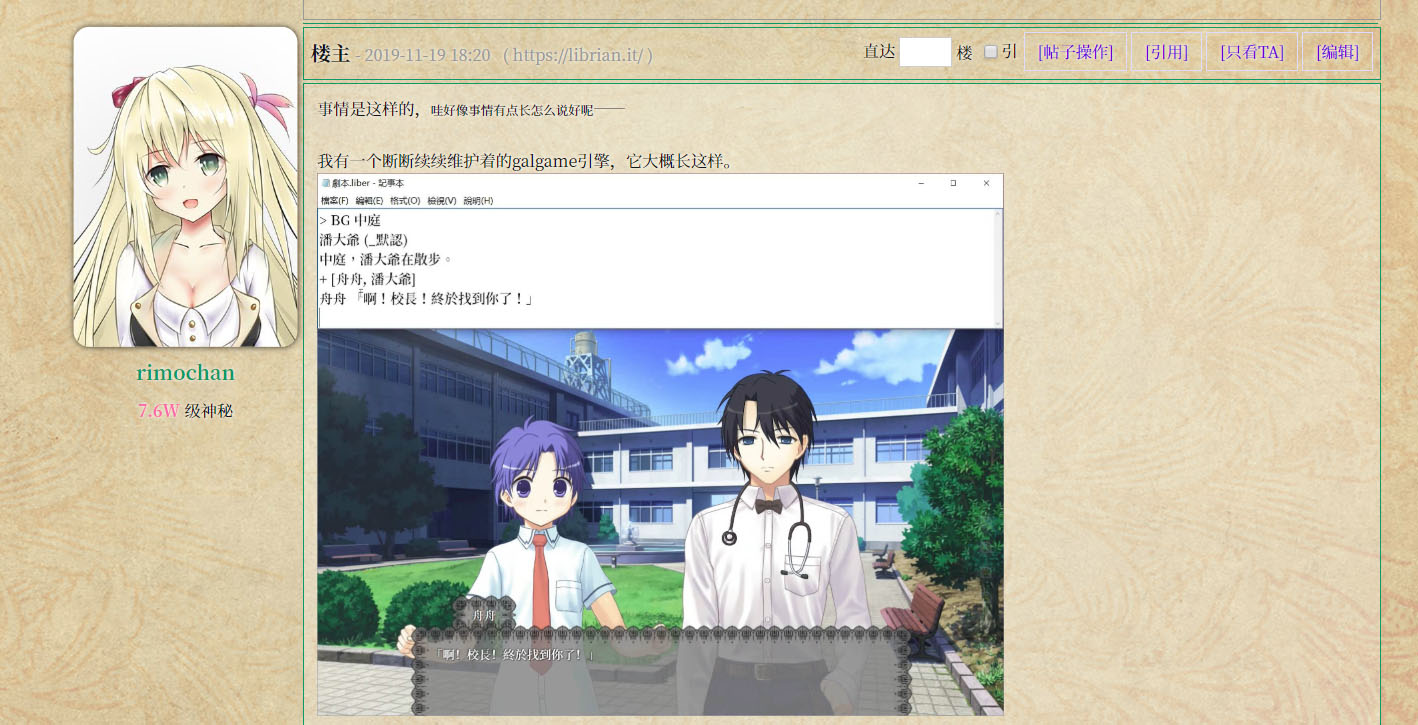
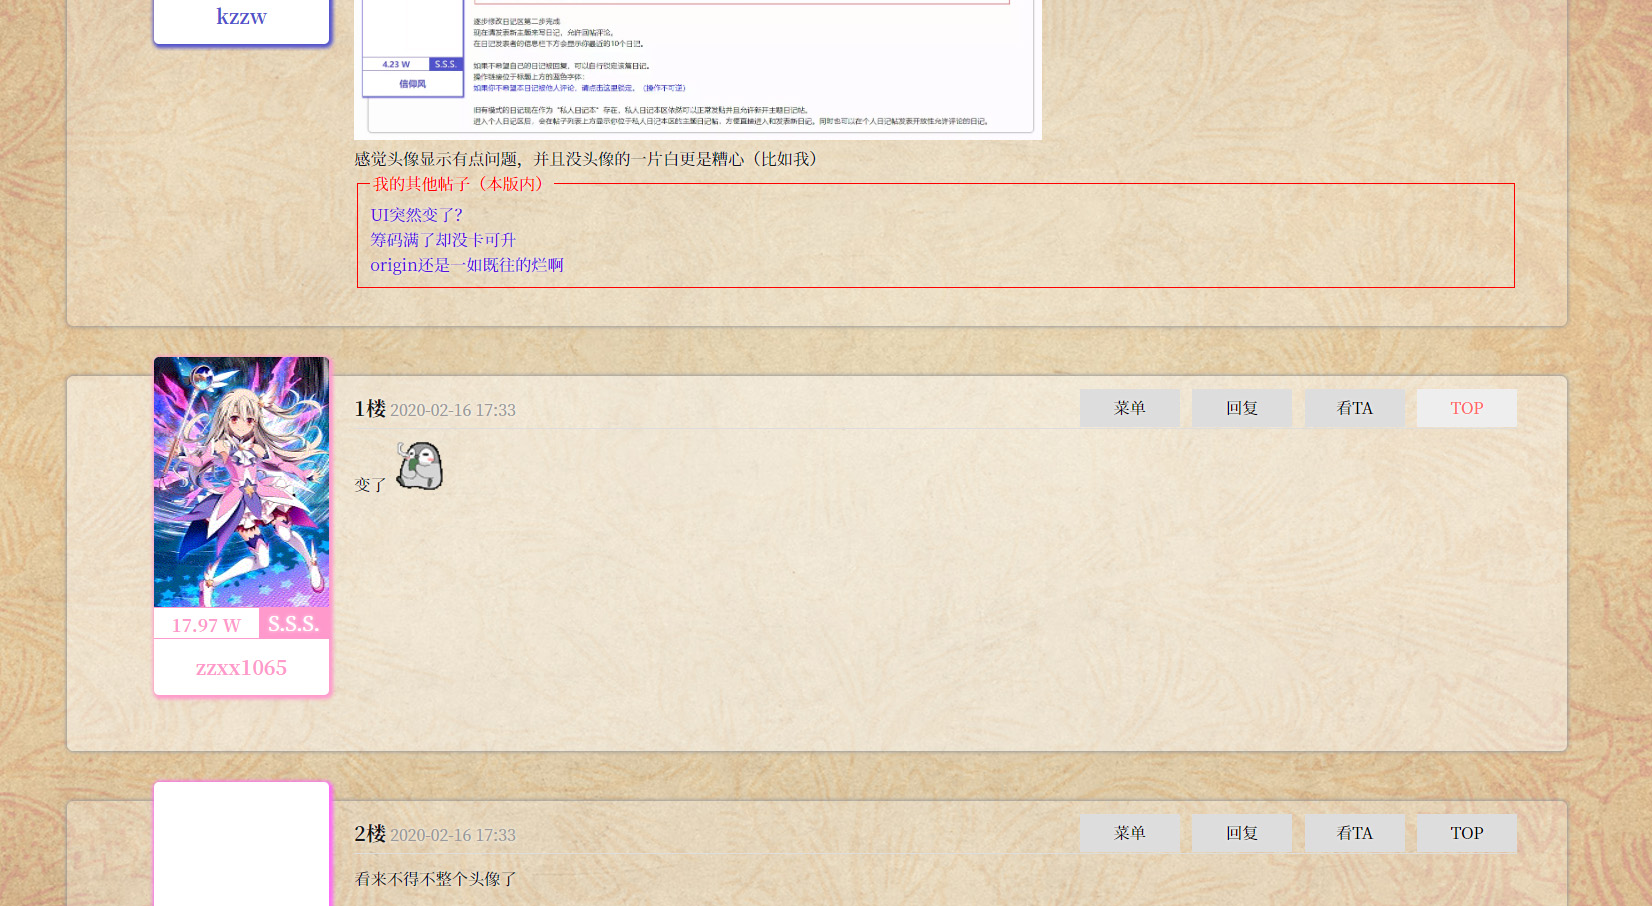
隨論壇更新樣式

diff --git a/manta_style.sass b/manta_style.sass
@@ -26,7 +26,7 @@ a, a:visited
         border-width: 0px
         a
             color: #000
-    
+
 // 版塊標題
 .indexlbtit2, .rightlbtit
     a
@@ -44,7 +44,7 @@ a, a:visited
         background: rgba(255, 255, 255, 0.3)
         transform: scale(1.02)
         box-shadow: 0px 0px 2px rgba(0, 0, 0, 0.3)
-    
+
 .indexlbtit2tit, .rightlbtit_tit 
     background: url('https://synthetic.librian.it/紙背景花紋模糊.jpg')
     background-size: cover
@@ -52,7 +52,7 @@ a, a:visited
     background-position: center
     box-shadow: 0px 0px 11px rgba(0, 0, 0, 0.5)
     transition: transform 0.3s
-    
+
 .rightbox1
     background: rgba(0, 0, 0, 0.2)
 
@@ -64,42 +64,29 @@ ul:hover
 // 大區背景
 .thread1 
     background: rgba(255, 255, 255, 0.3)
-    
+
 
 // ————————————————————————
 // 帖子內頭像框
+// .readidms 
 .readidms 
-    border: none !important
-    background: none !important
+    height: 270px
     width: 140px
-    transform: scale(1.28) translate(15px, 22px)
+    left: 70px
+    border-radius: 4px
+    overflow: hidden
     .readidmstop
         width: 100%
-        &>img
-            position: relative
-            box-shadow: 0px 0px 5px rgba(0,0,0,0.75)
-            z-index: -1
-            border-radius: 10px
-            transition: transform 0.4s, box-shadow 0.4s
-            height: auto
-        &:hover>img
-            transform: scale(1.28) translate(0px, 22px)
-            box-shadow: 0px 0px 8px rgba(0,0,0,0.5)
-    // 頭像框名字
+        padding: 0
     .readidmsbottom
         width: 100%
-        transform: scale(0.78) translate(0px, -22px)
-        transition: opacity 0.4s
-    .readidmstop:hover+.readidmsbottom
-        opacity: 0
-        
+        .readidmsbottom_s
+            width: 60%
+        .readidmsbottom_j
+            width: 40%
+        .readidmsbottom_n
+            width: 100%
 
-// 新版框
-.readidmtop img
-    transform-origin: 0% 0%
-    transform: scale(1.16) translateX(-15px) translateY(-17.5px)
-    -webkit-mask-image: linear-gradient(to right, rgba(0, 0, 0, 0), rgba(0, 0, 0, 1) 10%)
-    -moz-mask-image: linear-gradient(to right, rgba(0, 0, 0, 0), rgba(0, 0, 0, 1) 10%)
 
 // ————————————————————————
 // 讀帖子

diff --git a/manta_style.css b/manta_style.css
@@ -59,34 +59,22 @@ ul:hover .indexlbtit2tit, ul:hover .rightlbtit_tit {
   background: rgba(255, 255, 255, 0.3); }
 
 .readidms {
-  border: none !important;
-  background: none !important;
+  height: 270px;
   width: 140px;
-  transform: scale(1.28) translate(15px, 22px); }
+  left: 70px;
+  border-radius: 4px;
+  overflow: hidden; }
   .readidms .readidmstop {
-    width: 100%; }
-    .readidms .readidmstop > img {
-      position: relative;
-      box-shadow: 0px 0px 5px rgba(0, 0, 0, 0.75);
-      z-index: -1;
-      border-radius: 10px;
-      transition: transform 0.4s, box-shadow 0.4s;
-      height: auto; }
-    .readidms .readidmstop:hover > img {
-      transform: scale(1.28) translate(0px, 22px);
-      box-shadow: 0px 0px 8px rgba(0, 0, 0, 0.5); }
-  .readidms .readidmsbottom {
     width: 100%;
-    transform: scale(0.78) translate(0px, -22px);
-    transition: opacity 0.4s; }
-  .readidms .readidmstop:hover + .readidmsbottom {
-    opacity: 0; }
-
-.readidmtop img {
-  transform-origin: 0% 0%;
-  transform: scale(1.16) translateX(-15px) translateY(-17.5px);
-  -webkit-mask-image: linear-gradient(to right, rgba(0, 0, 0, 0), black 10%);
-  -moz-mask-image: linear-gradient(to right, rgba(0, 0, 0, 0), black 10%); }
+    padding: 0; }
+  .readidms .readidmsbottom {
+    width: 100%; }
+    .readidms .readidmsbottom .readidmsbottom_s {
+      width: 60%; }
+    .readidms .readidmsbottom .readidmsbottom_j {
+      width: 40%; }
+    .readidms .readidmsbottom .readidmsbottom_n {
+      width: 100%; }
 
 .readtext {
   background-color: rgba(255, 255, 255, 0.25);

diff --git a/readme.md b/readme.md
@@ -7,8 +7,6 @@
 (當然如果你有Stylish就更好了。)
 
 ## 預覽
-頭像: 
-![首頁](5.jpg)
 
 首頁:   
 ![首頁](1.jpg)
@@ -16,15 +14,5 @@
 鼠標懸停於鏈接:   
 ![首頁](2.jpg)
 
-## 舊的預覽
 帖子:    
 ![首頁](3.jpg)
-
-鼠標懸停於頭像:     
-![首頁](4.jpg)
-
-## 注意
-
-css並不包含字體，預覽圖的字體「方正雅宋」是要錢的所以不能放。我自己設這個爲瀏覽器的默認字體了。
-
-因爲頭像限制30k所以很多人的頭像都很小，放大了以後就會模糊……
